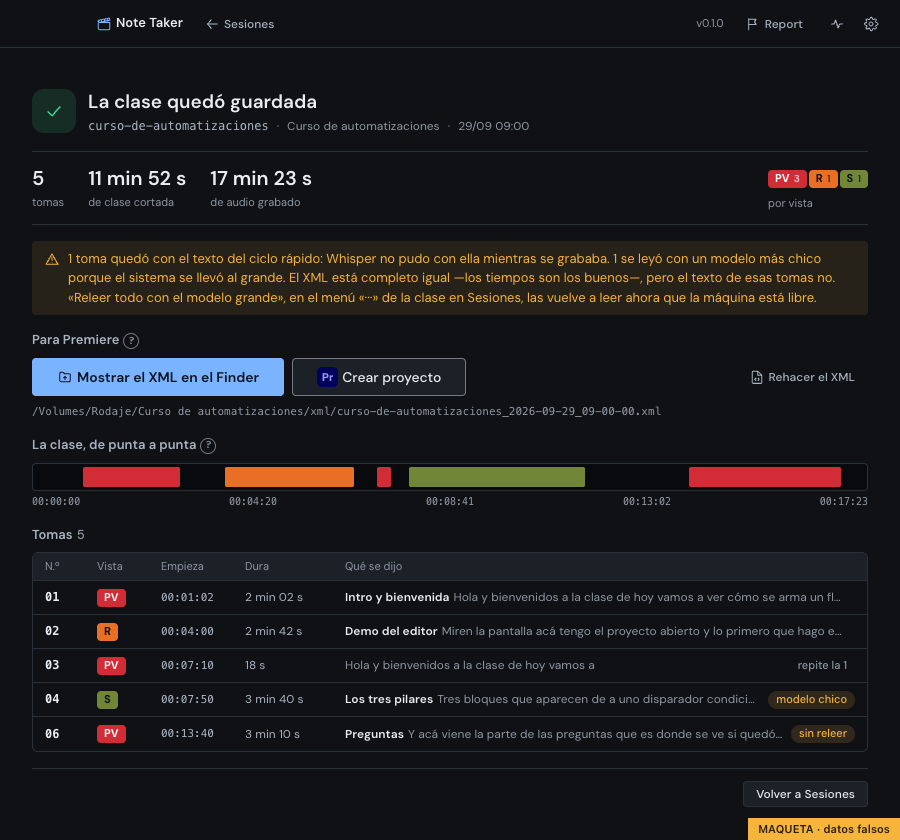
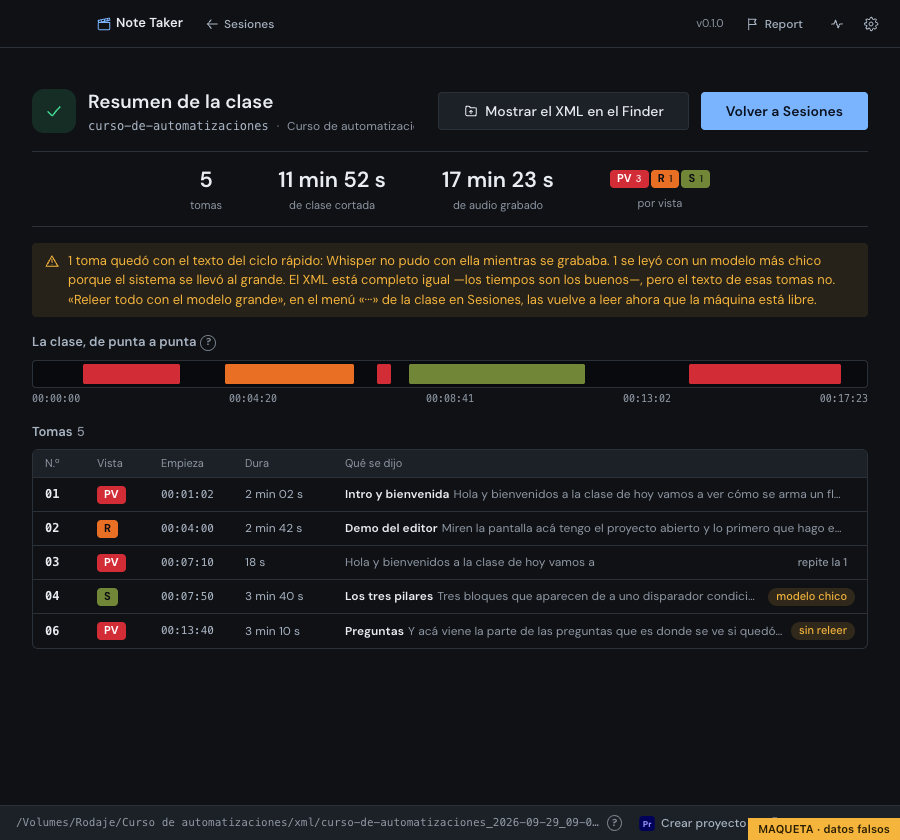
Cierre: «Resumen de la clase», volver y mostrar el XML arriba, las cifras al centro y lo de vez en cuando abajo
- Arriba a la derecha, «Volver a Sesiones» (grande, principal) y «Mostrar el XML en el Finder» al lado.
- Las cifras centradas.
- Una barra fija abajo con la ruta del XML, el «?» de los marcadores, y «Crear proyecto» y
  «Rehacer el XML» chicos, para que no se confundan con lo que se hace al terminar.

diff --git a/src/js/pantalla-cierre.js b/src/js/pantalla-cierre.js
@@ -4,7 +4,8 @@
  * Es corta a propósito: la clase terminó, el editor está cansado y lo único
  * que necesita es saber que salió bien y dónde está el archivo. Lo que no se
  * puede es que tenga que ir a buscarlo — por eso el botón que lo muestra en el
- * Finder es la acción principal, y está arriba.
+ * Finder está arriba, al lado de «Volver a Sesiones», que es lo que se hace
+ * después.
  *
  * Y dice lo que NO salió bien con el mismo detalle que lo que sí: una sesión
  * con tres tomas sin releer que solo diga «listo» es la pérdida silenciosa que
@@ -28,7 +29,7 @@ const LOGO_PREMIERE = `<svg class="logo-premiere" viewBox="0 0 24 23" aria-hidde
 
 export function conectar(contexto) {
     app = contexto;
-    $('#cierre-resumen').addEventListener('click', alClic);
+    $('#vista-cierre').addEventListener('click', alClic);
 }
 
 export function ver(laSalida) {
@@ -41,6 +42,7 @@ function pintar() {
     if (!salida) {
         $('#cierre-resumen').innerHTML =
             '<div class="vacio"><span class="vacio-titulo">No quedó nada que mostrar.</span></div>';
+        $('#cierre-pie').innerHTML = '';
         return;
     }
 
@@ -54,13 +56,20 @@ function pintar() {
       <header class="cierre-cabeza">
         <span class="cierre-icono ${revisar ? 'es-revisar' : ''}">${icono(revisar ? 'atencion' : 'ok')}</span>
         <div class="cierre-titulos">
-          <h1 class="cierre-titulo">${revisar ? 'La clase quedó guardada, con algo para revisar' : 'La clase quedó guardada'}</h1>
+          <h1 class="cierre-titulo">Resumen de la clase
+            ${revisar ? '<span class="pastilla" data-estado="sin releer">revisar</span>' : ''}</h1>
           <div class="cierre-sub">
             <code>${esc(salida.corto || salida.secuencia)}</code>
             ${salida.curso ? `<span>${esc(salida.curso)}</span>` : ''}
             ${salida.ceroMs ? `<span>${esc(fmt.cuando(salida.ceroMs))}</span>` : ''}
           </div>
         </div>
+        <span class="crece"></span>
+        <button class="btn btn-grande" type="button" data-hace="finder"
+                title="Abrir el Finder con el XML de esta clase seleccionado, listo para arrastrarlo a Premiere">
+          ${icono('finder')} Mostrar el XML en el Finder</button>
+        <button class="btn btn-primario btn-grande" type="button" data-hace="sesiones"
+                title="Volver a la lista de clases de la carpeta">Volver a Sesiones</button>
       </header>
 
       <div class="cierre-cifras">
@@ -72,24 +81,6 @@ function pintar() {
 
       ${revisar ? avisoDeComprobacion(problemas) : ''}
       ${sinReleer.length || chicas.length ? aviso(sinReleer, chicas) : ''}
-
-      <section class="cierre-bloque">
-        <h2 class="cierre-paso">Para Premiere
-          <span class="ayuda" tabindex="0" title="El XML lleva el audio en A1, y los mismos marcadores van tres veces: en la secuencia, en el clip de A1 y en el clip maestro del WAV. Los del maestro son los que acompañan al audio si lo arrastrás a otra secuencia o lo metés en un multicámara. La sincronía con las cámaras va por forma de onda.">?</span></h2>
-        <div class="cierre-acciones">
-          <button class="btn btn-primario btn-grande" type="button" data-hace="finder"
-                  title="Abrir el Finder con el XML de esta clase seleccionado, listo para arrastrarlo a Premiere">
-            ${icono('finder')} Mostrar el XML en el Finder</button>
-          <button class="btn btn-premiere btn-grande" type="button" data-hace="prproj"
-                  title="Armar el proyecto de Premiere del curso entero, con esta clase adentro">
-            ${LOGO_PREMIERE} Crear proyecto</button>
-          <span class="crece"></span>
-          <button class="btn btn-tenue" type="button" data-hace="rehacer-xml"
-                  title="Reescribe el XML con el formato de esta versión. No relee el audio ni toca las notas: es para cuando una versión nueva arregla algo del archivo.">
-            ${icono('xml')} Rehacer el XML</button>
-        </div>
-        <div class="cierre-archivo" title="${esc(salida.archivos.xml)}">${esc(salida.archivos.xml)}</div>
-      </section>
 
       <section class="cierre-bloque">
         <h2 class="cierre-paso">La clase, de punta a punta
@@ -104,12 +95,21 @@ function pintar() {
           <div class="cierre-toma es-cabeza"><span>N.º</span><span>Vista</span><span>Empieza</span><span>Dura</span><span>Qué se dijo</span><span></span></div>
           ${vivas.map(filaDeToma).join('')}
         </div>
-      </section>` : ''}
+      </section>` : ''}`;
 
-      <div class="cierre-pie">
-        <button class="btn" type="button" data-hace="sesiones"
-                title="Volver a la lista de clases de la carpeta">Volver a Sesiones</button>
-      </div>`;
+    // Lo que se usa poco va abajo y chico: «Crear proyecto» es del curso entero
+    // y «Rehacer el XML» es para cuando una versión nueva arregla el archivo.
+    // Al lado de los de arriba se confundían con lo que hay que hacer al terminar.
+    $('#cierre-pie').innerHTML = `
+      <span class="cierre-archivo" title="${esc(salida.archivos.xml)}">${esc(salida.archivos.xml)}</span>
+      <span class="ayuda" tabindex="0" title="El XML lleva el audio en A1, y los mismos marcadores van tres veces: en la secuencia, en el clip de A1 y en el clip maestro del WAV. Los del maestro son los que acompañan al audio si lo arrastrás a otra secuencia o lo metés en un multicámara. La sincronía con las cámaras va por forma de onda.">?</span>
+      <span class="crece"></span>
+      <button class="btn btn-tenue btn-chico" type="button" data-hace="prproj"
+              title="Armar el proyecto de Premiere del curso entero, con esta clase adentro">
+        ${LOGO_PREMIERE} Crear proyecto</button>
+      <button class="btn btn-tenue btn-chico" type="button" data-hace="rehacer-xml"
+              title="Reescribe el XML con el formato de esta versión. No relee el audio ni toca las notas: es para cuando una versión nueva arregla algo del archivo.">
+        ${icono('xml')} Rehacer el XML</button>`;
 }
 
 /**

diff --git a/src/css/14-cierre.css b/src/css/14-cierre.css
@@ -1,9 +1,10 @@
 /* ──────────────────────────────────────────────────────────────────────────
    14. CIERRE: qué quedó y dónde
 
-   Con la misma forma que Sesiones: sin tarjetas, un título que dice cómo
-   salió, las cifras en un renglón, la acción principal arriba, y debajo la
-   clase de punta a punta y sus tomas, en filas de 34 px.
+   Con la misma forma que Sesiones: sin tarjetas. Arriba el título y lo que se
+   hace al terminar —mostrar el XML y volver a la lista—; al centro, las cifras,
+   la clase de punta a punta y sus tomas en filas de 34 px; y abajo, en una
+   barra fija y chica, lo que se usa de vez en cuando.
    ────────────────────────────────────────────────────────────────────────── */
 
 .cierre {
@@ -52,16 +53,24 @@
 }
 
 .cierre-titulo {
+  display: flex;
+  align-items: center;
+  gap: var(--sp-3);
   margin: 0;
   font-size: 19px;
   font-weight: 600;
 }
 
+.cierre-cabeza .btn-grande .hp-ico {
+  margin-right: var(--sp-1);
+}
+
 .cierre-sub {
   display: flex;
-  flex-wrap: wrap;
   align-items: center;
-  gap: var(--sp-1) var(--sp-3);
+  gap: var(--sp-3);
+  overflow: hidden;
+  white-space: nowrap;
   font-size: 12px;
   color: var(--text-muted);
 }
@@ -76,11 +85,12 @@
   margin-right: var(--sp-3);
 }
 
-/* Las cifras: el número grande y lo que es, sin cajas. */
+/* Las cifras: el número grande y lo que es, sin cajas, al centro. */
 .cierre-cifras {
   display: flex;
   flex-wrap: wrap;
-  gap: var(--sp-4) var(--sp-6);
+  justify-content: center;
+  gap: var(--sp-4) 56px;
   padding: var(--sp-4) 0;
   border-top: 1px solid var(--hairline);
   border-bottom: 1px solid var(--hairline);
@@ -89,11 +99,13 @@
 .cierre-cifra {
   display: flex;
   flex-direction: column;
+  align-items: center;
   gap: 2px;
+  text-align: center;
 }
 
 .cierre-cifra b {
-  font-size: 20px;
+  font-size: 22px;
   font-weight: 600;
   color: var(--text-primary);
 }
@@ -101,10 +113,6 @@
 .cierre-cifra > span {
   font-size: 11px;
   color: var(--text-muted);
-}
-
-.cierre-cifra.es-vistas {
-  margin-left: auto;
 }
 
 .cierre-vistas {
@@ -161,21 +169,6 @@
   color: var(--text-muted);
 }
 
-.cierre-acciones {
-  display: flex;
-  flex-wrap: wrap;
-  align-items: center;
-  gap: var(--sp-3);
-}
-
-.cierre-archivo {
-  overflow: hidden;
-  font-family: 'SF Mono', ui-monospace, Menlo, monospace;
-  font-size: 11px;
-  color: var(--text-muted);
-  white-space: nowrap;
-  text-overflow: ellipsis;
-}
 
 /* La clase de punta a punta: lo gris es lo que queda afuera. */
 .cierre-tira {
@@ -290,7 +283,41 @@
 
 .cierre-pie {
   display: flex;
-  justify-content: flex-end;
-  padding-top: var(--sp-4);
+  align-items: center;
+  gap: var(--sp-2);
+  padding: var(--sp-2) var(--sp-5);
+  background: var(--bg-surface);
   border-top: 1px solid var(--hairline);
+}
+
+.cierre-pie:empty {
+  display: none;
+}
+
+.cierre-archivo {
+  min-width: 0;
+  overflow: hidden;
+  font-family: 'SF Mono', ui-monospace, Menlo, monospace;
+  font-size: 11px;
+  color: var(--text-muted);
+  white-space: nowrap;
+  text-overflow: ellipsis;
+}
+
+.btn.btn-chico {
+  gap: 6px;
+  min-height: 26px;
+  padding: 0 var(--sp-3);
+  font-size: 12px;
+}
+
+.btn-chico .logo-premiere {
+  width: 16px;
+  height: 15px;
+}
+
+.btn-chico .hp-ico {
+  width: 14px;
+  height: 14px;
+  flex-basis: 14px;
 }

diff --git a/src/index.html b/src/index.html
@@ -238,6 +238,7 @@
     <div class="scroll">
       <div class="cierre" id="cierre-resumen"></div>
     </div>
+    <footer class="cierre-pie" id="cierre-pie"></footer>
   </section>
 </div>
 
